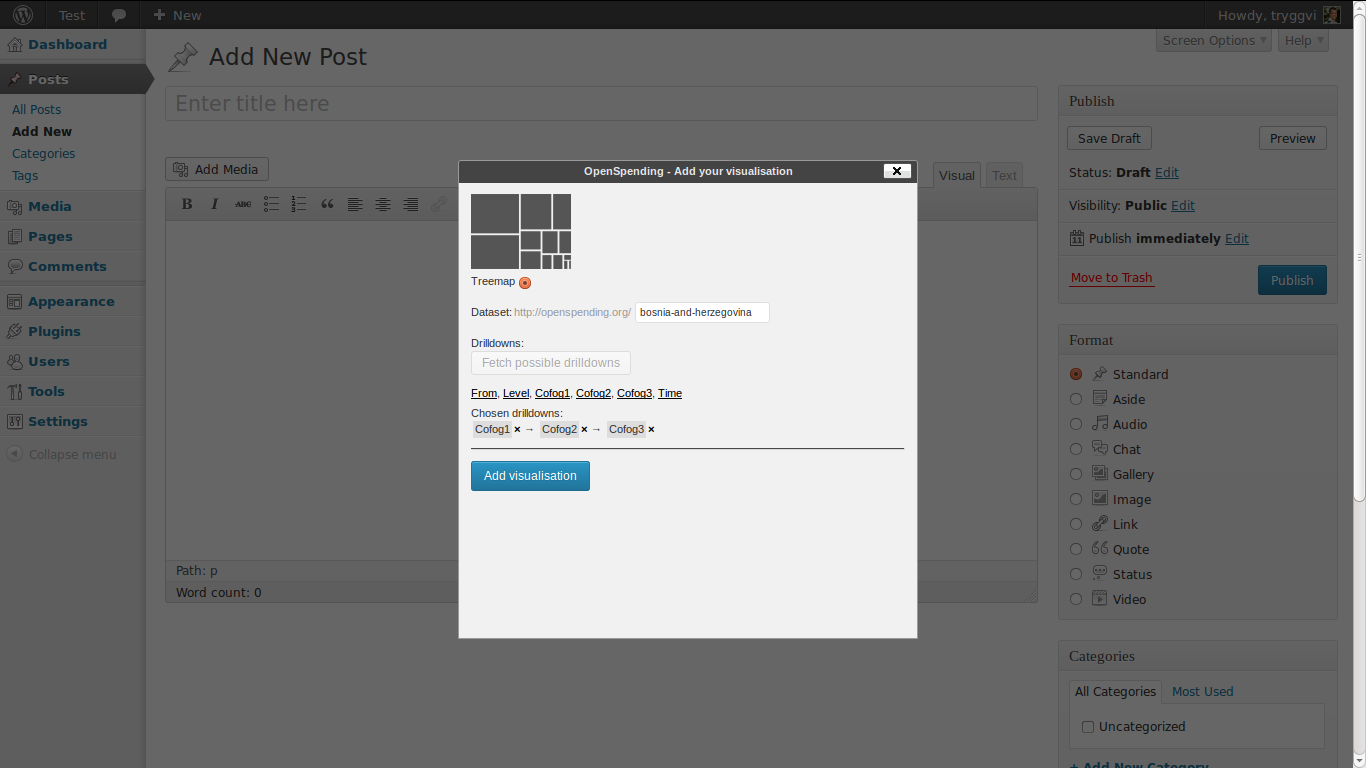
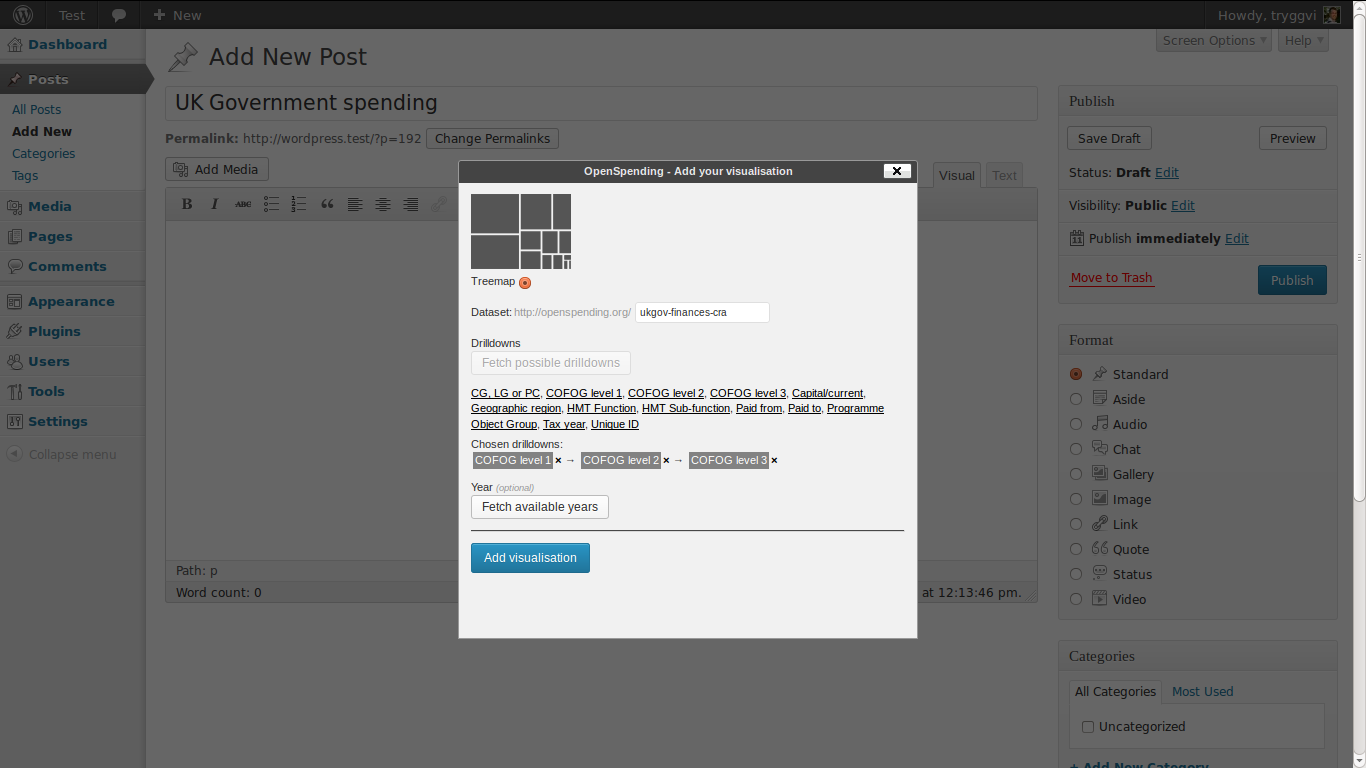
Updated docs with information on how to select a year to look at.

diff --git a/docs/user-interface.md b/docs/user-interface.md
@@ -10,7 +10,7 @@ Click this button to add a visualisation. You will be prompted by a popup window
 
 Choose your type of visualisation (at the moment only the treemap is supported) and type in the identifier for your dataset. The identifier you can get from the OpenSpending url.
 
-For example, if you're dataset lives at http://openspending.org/ukgov-25k-spending you would type in ukgov-25k-spending as the dataset.
+For example, if you're dataset lives at http://openspending.org/ukgov-finances-cra you would type in ukgov-finances-cra as the dataset.
 
 When you have filled in your dataset click on the button called *Fetch drilldowns*. This will get the available drilldown dimensions for you:
 
@@ -20,15 +20,23 @@ Now, click on the dimensions you want to drilldown into **in the order you want 
 
 ![Chosen drilldown dimensions](openspending-drilldowns-chosen.png)
 
-After choosing your drilldown dimensions click *Add visualisations*. This will add the so-called *shortcode* to your blog post. The shortcode has the form:
+You can do the same thing if you want to only get data for a particular year. Looking at a year in your dataset is entirely **optional**.First you click on *Fetch available years*. This goes out and fetches the years for the dataset and presents them to you. 
+
+![Years fetched for supplied dataset](openspending-years-fetched.png)
+
+You click on the year you want to look at. Note that you can only choose one year per visualisation (or no year which fetches data for all of the years).
+
+![Chosen year](openspending-year-chosen.png)
+
+After choosing your drilldown dimensions (and possibly the year) click *Add visualisations*. This will add the so-called *shortcode* to your blog post. The shortcode has the form:
 
     [openspending type="treemap" dataset="my-dataset" dimensions="from,to"]
 
-This is what creates the visualisation on your page (so you can move that square bracket along with its content around the page if you want):
+If you selected a year, there will be *year="2013"* in there somewhere. This is what creates the visualisation on your page (so you can move that square bracket along with its content around the page if you want):
 
 ![Shortcode added to the page](openspending-shortcode-added.png)
 
 Now you can publish your page or post and have a look. You'll see your visualisation added exactly where you want it to be:
 
-![Beautifully rendered OpenSpending visualisation](openspending-bosnian-treemap.png)
+![Beautifully rendered OpenSpending visualisation](openspending-uk-treemap.png)
 
